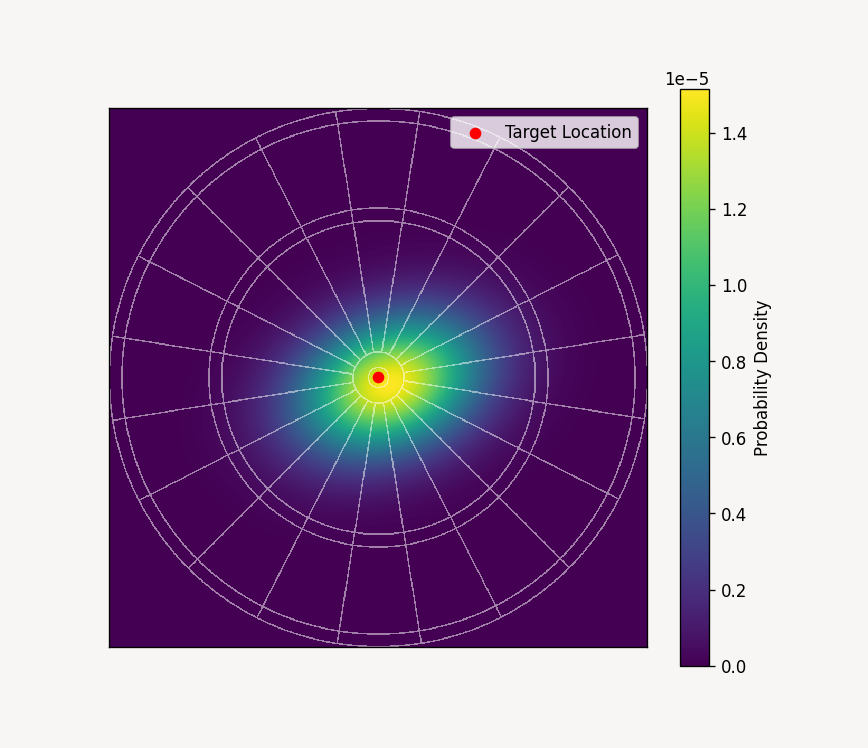
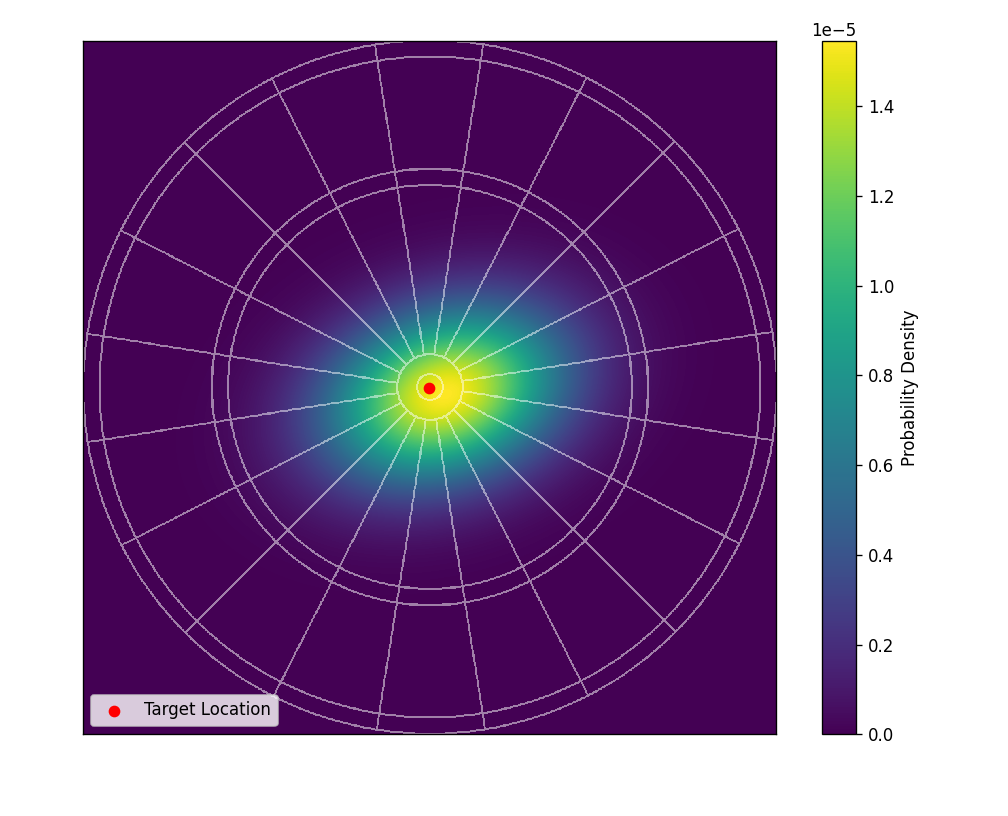
updated example output pics

diff --git a/src/create_animation.py b/src/create_animation.py
@@ -8,12 +8,12 @@ from Dartboard import Dartboard
 
 def create_animation(output_path, board):
     fps = 30
-    nSeconds = 15
+    nSeconds = 10
     std_max = 80
     std_min = 2
 
     # Set up the figure, the axis, and the plot element we want to animate
-    fig = plt.figure(figsize=(8,8), dpi=500)
+    fig = plt.figure(figsize=(8,8), dpi=120)
     ax = plt.subplot(111)
     divider = make_axes_locatable(ax)
     cax = divider.append_axes('right', size='5%', pad=0.05)

diff --git a/src/Gaussian.py b/src/Gaussian.py
@@ -67,5 +67,6 @@ if __name__ == "__main__":
 
     plot_accuracy_distribution(gaussian.pdf, board.outline)
     plt.scatter(MIDDLE, MIDDLE, c="r", marker="o", label="Target Location")
-    plt.legend()
+    plt.legend(loc="lower left")
+    plt.subplots_adjust(left=0.05, right=0.95, top=0.95, bottom=0.1)
     plt.show()

diff --git a/src/utils.py b/src/utils.py
@@ -7,7 +7,6 @@ def generate_test_samples(mean_x, mean_y, std_x, std_y, corr, num_samples):
 
 def plot_accuracy_distribution(prob, outline):
     fig = plt.figure(figsize=(8.4, 6.8), dpi=120)
-    fig.patch.set_facecolor('#f7f6f4')
     ax = fig.add_subplot()
     ax.set_title('')
     plt.imshow(prob)

diff --git a/src/Dartboard.py b/src/Dartboard.py
@@ -175,4 +175,5 @@ if __name__ == "__main__":
     plot_score_distribution(scores, board.outline)
     plt.scatter(i_max, ii_max, c="r", marker="o", label="Best Aiming Location")
     plt.legend(loc="lower left")
+    plt.subplots_adjust(left=0.05, right=0.95, top=0.95, bottom=0.1)
     plt.show()

diff --git a/README.md b/README.md
@@ -4,7 +4,7 @@ This repository contains a framework for modelling and simulating the sport of d
 
 ## Example Outputs
 
-### A plot of the expected score calculated across the dartboard, with a marker showing the maximum, i.e. the location that the player should aim to maximise their scoring long-term:
+### A plot of the expected score calculated across the dartboard, with a marker showing the maximum, i.e. the location that the player should aim to maximise their long-term scoring average:
 
 ![alt text](static\output_example.png)
 
